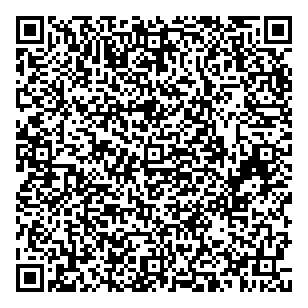
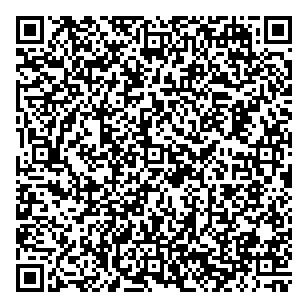
Updated LV data (#85)

diff --git a/LV/1.0.0/README.md b/LV/1.0.0/README.md
@@ -12,6 +12,8 @@ Used for productive DCCs issuance
 
 ![VAC](VAC.png)
 
+![VAC2](VAC2.png)
+
 
 ### Test
 
@@ -26,25 +28,13 @@ Used for productive DCCs issuance
 
 ### Special cases and deviations
 
-### A number of vaccination DCCs have been issued with universal vp value (vp=J07BX03) and one dose of two (1/2)
-
-### Vaccination
-
-![VAC](specialcases/VAC_one_does_of_two.png)
-
-
-### A number of vaccination DCCs have been issued with incorrect number in a series of doses (dn=7)
-
-### Vaccination
-
-![VAC](specialcases/VAC_incorrect_number_of_doses.png)
-
 
 ### A number of DCCs have been issued with name with not allowed characters in, fnt, gnt (fnt="EGLIS-EGLITIS" not "EGLIS<EGLITIS")
 
 ### Vaccination
 
 ![VAC](specialcases/VAC_not_allowed_characters_in_fnt.png)
+
 
 
 ### A number of Test DCCs have been issued with NULL values in nm,ma
@@ -54,29 +44,12 @@ Used for productive DCCs issuance
 ![TEST](specialcases/TEST_NULL_values_in_nm_ma.png)
 
 
+
 ### A number of Recovery DCCs have been issued before df and df-fr=9 
 
 ### Recovery
 
 ![REC](specialcases/REC_df_minu_fr_equals_9.png)
-
-
-### A number of Recovery DCCs have been issued before df and df-fr=11 
-
-### Recovery
-
-![REC](specialcases/REC_df_minu_fr_equals_11.png)
-
-
-### A number of Recovery DCCs have been issued before df and df is prior date fr 
-
-### Recovery
-
-![REC](specialcases/REC_df_prior_date_fr.png)
-
-
-
-
 
 
 

diff --git a/LV/1.3.0/README.md b/LV/1.3.0/README.md
@@ -1,0 +1,29 @@
+# LV - Latvia
+
+* **JSON schema version**: 1.3.0
+
+Used for productive DCCs issuance
+* From: 19.06.2021
+* Until:
+
+## Test files
+
+### Vaccination
+
+![VAC](VAC.png)
+
+
+### Test
+
+![TEST](TEST.png)
+
+
+### Recovery
+
+![REC](REC.png)
+
+
+
+### Special cases and deviations
+
+none
